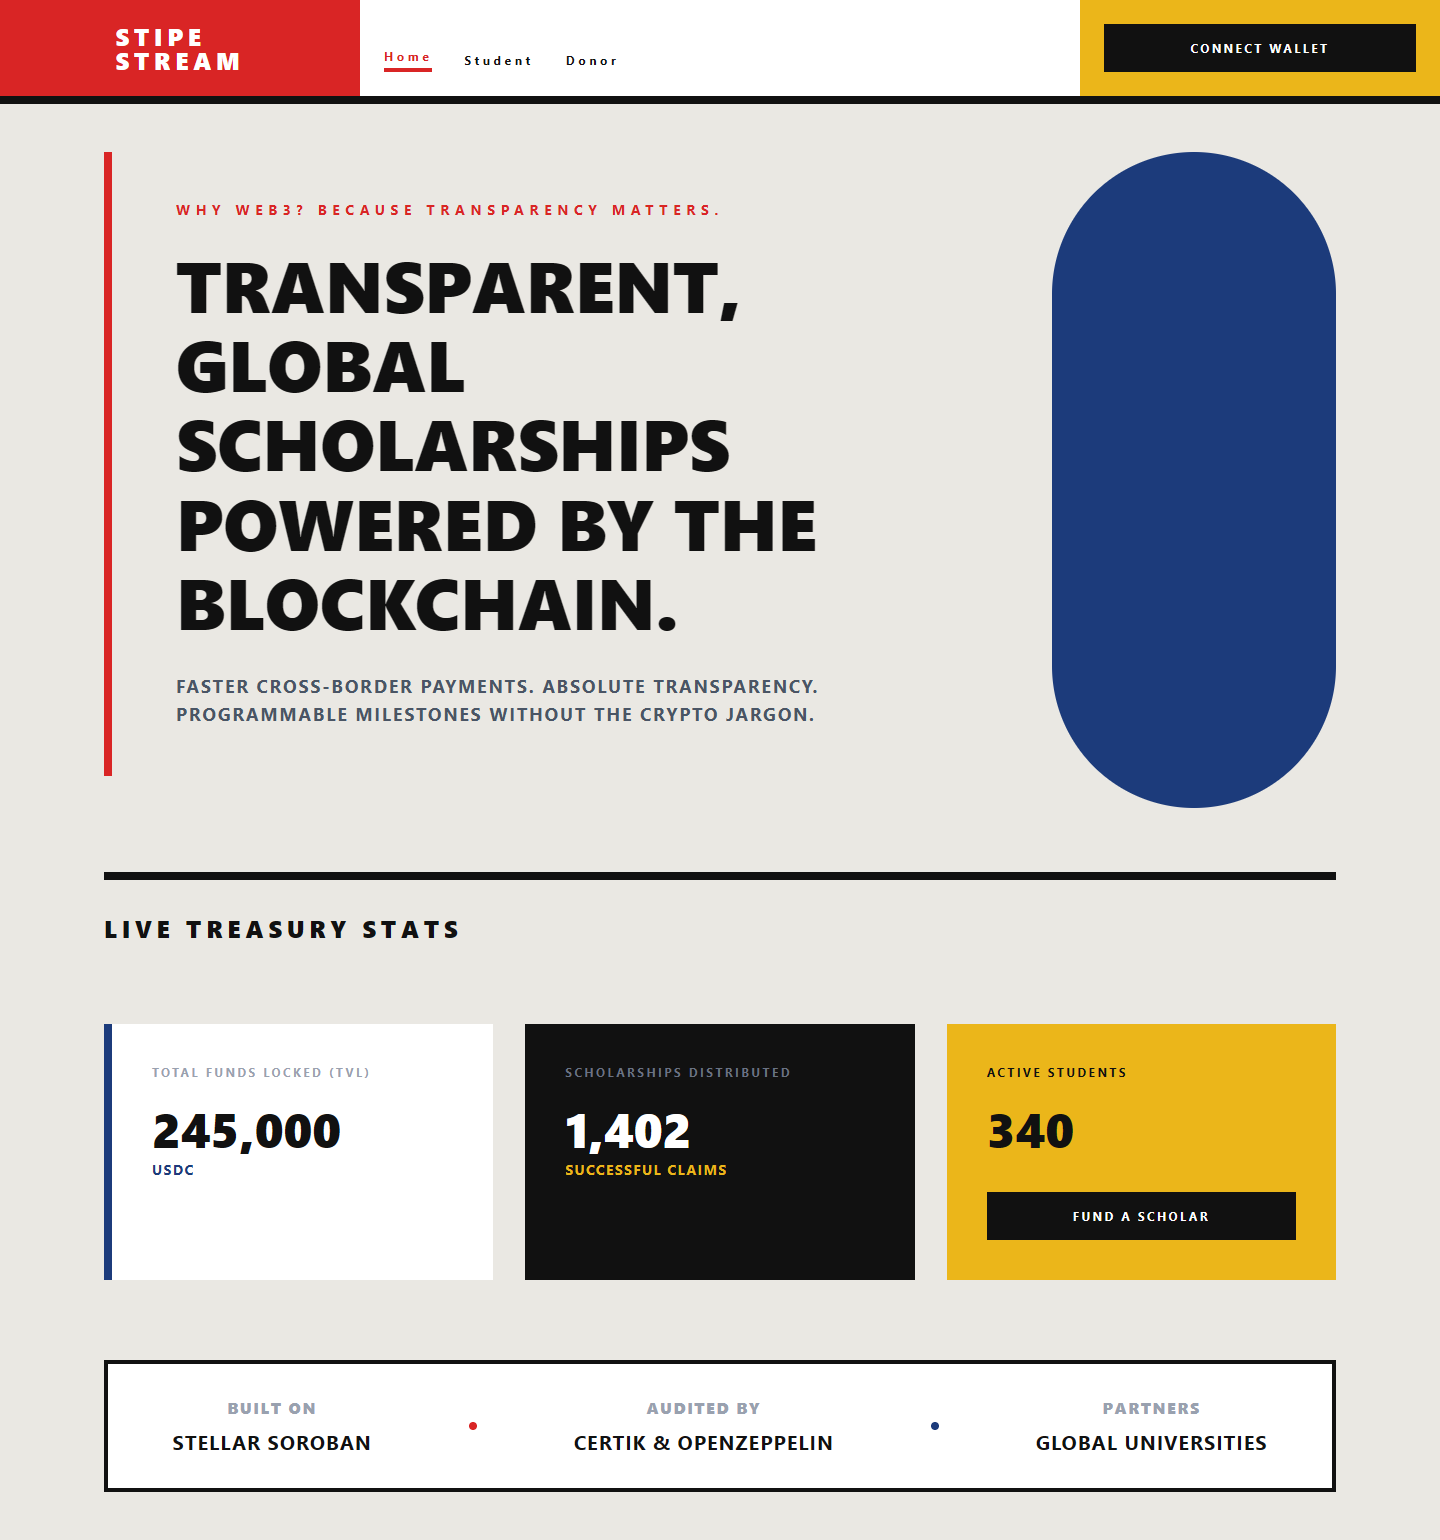
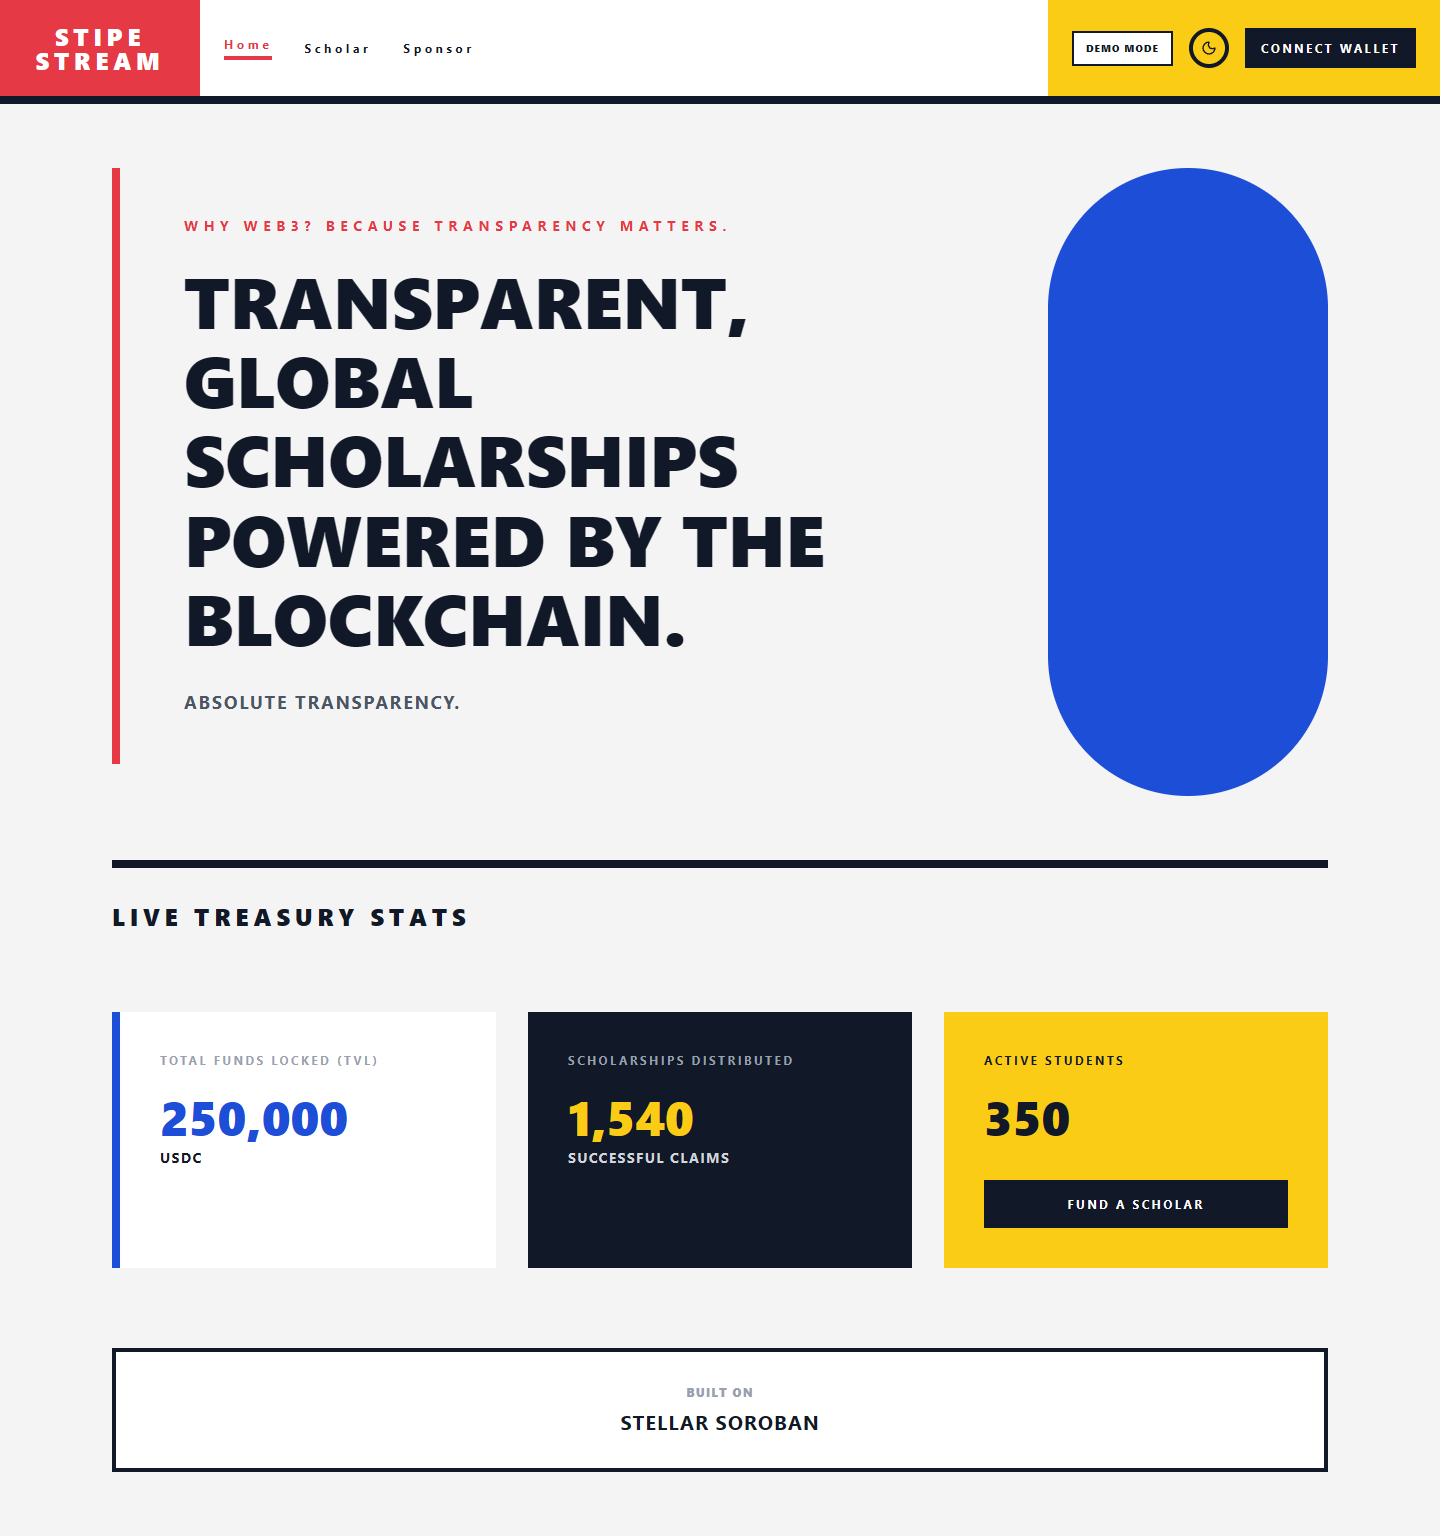
Complete documentation overhaul with detailed architecture and design walkthrough

diff --git a/README.md b/README.md
@@ -1,156 +1,141 @@
 # StipeStream
 
-**One-Line Description:** An automated, time-locked Soroban smart contract that guarantees on-time monthly stipend distributions for university scholars.
+**One-Line Description:** An automated, time-locked Soroban smart contract that guarantees on-time monthly stipend distributions for university scholars with a premium Bauhaus-inspired interface.
+
+![StipeStream Banner](./site_home.png)
 
 ## What is StipeStream?
-StipeStream is a decentralized aid disbursement protocol built on the Stellar Soroban network. It empowers NGOs, alumni funds, and educational institutions to lock stipends in a smart contract, allowing students to claim their allowance trustlessly and automatically on a strict schedule.
+StipeStream is a decentralized aid disbursement protocol built on the **Stellar Soroban** network. It empowers NGOs, alumni funds, and educational institutions to lock stipends in a smart contract, allowing students to claim their allowance trustlessly and automatically on a strict schedule.
 
-## The Problem it Solves
-**Problem:** A low-income university scholar in Metro Manila (and globally) faces food insecurity and risks dropping out because their monthly living allowance from a local NGO is chronically delayed by bureaucratic accounting bottlenecks. The cost of friction includes severe cash flow disruptions leading to skipped meals, late rent penalties, or taking out high-interest short-term loans.
-
-## Target Users
-- **Funder (NGOs / Alumni Associations):** Organizations that want a transparent, zero-administrative-overhead way to disburse funds to students predictably.
-- **Students (Scholars):** Low-income students who rely on scheduled aid to pay rent, buy groceries, and afford commuting without facing uncertain delays.
+---
 
 ## Why Stellar?
 - **Low Fees:** Distributing $100 in aid should not cost $10 in network fees. Stellar's fraction-of-a-cent transaction fees ensure the maximum amount of aid reaches the scholar.
-- **Fast Settlement:** Students receive their USDC in under 5 seconds, allowing them to offramp it immediately.
-- **Soroban Smart Contracts:** The time-lock conditions and exact payout amounts are immutably written into Soroban contracts, guaranteeing that funders cannot arbitrarily delay the schedule, nor can students claim early.
+- **Soroban Smart Contracts:** Leveraging `Env::ledger().timestamp()` for secure, un-cheatable time-locked conditions.
+- **Freighter Wallet:** The industry-standard entry point for the Stellar ecosystem, providing a secure and familiar bridge for users.
+- **USDC on Stellar:** Near-instant settlement of stable value, ensuring students receive funds they can use immediately without volatility.
 
-## How it Works
-**Solution:** An NGO or alumni fund locks the entire semester's stipend in a Soroban smart contract at the start of the term. This empowers the student to trustlessly withdraw exactly one month's allowance (in USDC) every 30 days without waiting for any human approval. 
+## Design Philosophy: Bauhaus Functionalism
+StipeStream is designed around the **Bauhaus Design System**, emphasizing geometric clarity, structural hierarchy, and vibrant primary colors.
+- **Crimson (#E63946):** Urgent actions and progress tracking.
+- **Navy (#1D4ED8):** Primary identity and student verification status.
+- **Gold (#FACC15):** Rewards, treasury volume, and positive impact metrics.
+- **Charcoal (#111827):** Deep contrast and professional structural elements.
 
-1. **Initialization:** The funder (NGO) initializes the contract with the student's address and the agreed stipend amount.
-2. **Funding:** The funder deposits a large sum (e.g., for a full semester) into the contract's vault.
-3. **Claiming:** The student connects their wallet (e.g., Freighter) and withdraws one month's allowance exactly every 30 days. The time-lock strictly prevents early withdrawals.
+---
+
+## Key Features
+
+### 1. Smart Contract Time-Locks
+Funds are locked in a Soroban escrow. Students can only withdraw their `payout_amount` after a 30-day interval has passed since their last claim. Human intervention is removed, eliminating administrative delays.
+
+### 2. Risk-Free Demo Mode
+Explore the entire platform without spending real XLM. Demo Mode uses isolated `localStorage` keys and simulates transactions with realistic latencies and success modals. It comes pre-loaded with sample data (TVL: 12.5k USDC) for an instant presentation-ready feel.
+
+### 3. Persistent Dark Mode
+Full support for user-preferred theming. StipeStream remembers your choice between Light and Dark mode, using a premium charcoal palette that preserves the Bauhaus primary colors' vibrancy while reducing eye strain.
+
+### 4. Fully Responsive Engineering
+The dashboard is engineered to be a mobile-first experience. 
+- **Wrapping Headers:** Navigation and wallet controls wrap logically on small screens.
+- **Stacked Layouts:** Complex dashboards transition from multi-column grids to intuitive vertical stacks.
+- **Diagram Alignment:** The Fund Allocation flow diagram dynamically re-aligns its connectors for small screens.
+
+---
+
+## Target Users
+- **NGOs / Funders:** Organizations requiring transparent, automated disbursement with zero overhead.
+- **Scholars (Students):** High-need students relying on predictable, on-time living allowances.
+- **Donors:** Individuals who want to see their impact in real-time through the **Impact NFT** visualization.
+
+---
 
 ## Architecture
-StipeStream utilizes a hybrid architecture matching modern Web3 standards:
-- **Frontend Layer:** A high-performance, neo-brutalist React application (built with Vite and TailwindCSS) hosted on GitHub Pages. It uses `@stellar/freighter-api` to connect directly to the user's wallet.
-- **Contract Layer:** A Rust-based Soroban smart contract deployed on the Stellar Testnet. This contract acts as the trustless escrow vault.
-- **Ledger Layer:** The Stellar Network processes the USDC transfers and maintains an immutable public ledger of all disbursements.
+
+```mermaid
+graph TD
+    User((User/Student)) -->|Freighter Wallet| Frontend[React Bauhaus UI]
+    Frontend -->|Soroban RPC| Contract[Soroban Escrow Contract]
+    Contract -->|Claim/Deposit| Ledger[Stellar Ledger]
+    Ledger -->|USDC Transfer| User
+    
+    subgraph Contract Logic
+        TimeLock[Time-Lock Check]
+        Identity[zk-Proof Simulation]
+        Balance[Vault Balance Guard]
+    end
+```
+
+---
 
 ## Project Structure
 ```text
 stipestream/
 ├── contracts/               # Soroban smart contracts
-│   └── hello-world/         
-│       ├── Cargo.toml       # Contract dependencies
-│       └── src/
-│           ├── lib.rs       # Core smart contract logic
-│           └── test.rs      # Unit tests
+│   └── hello-world/         # Core disbursement logic
+│       ├── src/lib.rs       # Rust implementation of escrow & time-locks
 ├── frontend/                # React Web Application
 │   ├── src/
-│   │   ├── App.tsx          # Main application logic & UI
-│   │   └── index.css        # Neo-brutalist global styling
-│   ├── tailwind.config.js   # Custom design tokens
-│   └── package.json         # Frontend dependencies
-├── .github/workflows/       # CI/CD pipelines (GitHub Pages deployment)
-└── README.md                # Project documentation
+│   │   ├── App.tsx          # Main logic, Demo Mode, & Dashboard routing
+│   │   └── index.css        # Bauhaus Design System & Dark Mode variants
+│   ├── tailwind.config.js   # Custom Bauhaus design tokens
+│   └── screenshot.cjs       # Puppeteer automation for documentation
+└── README.md                # Detailed project documentation
 ```
 
-## Contract Functions
-The core logic resides in a Soroban contract tracking a `StipendState` with the following key functions:
-- `initialize(funder: Address, student: Address, token: Address, payout_amount: i128, interval_secs: u64)`: Sets up the initial parameters and binds the student and funder.
-- `deposit(amount: i128)`: Called by the funder to lock funds into the contract's vault.
-- `claim()`: Called by the student. The contract checks if `current_time >= last_claim_time + interval_secs`. If true, it transfers `payout_amount` of USDC to the student and updates `last_claim_time`.
+---
 
 ## Status Lifecycle
-1. **Unfunded / Pending:** The contract is initialized but has no USDC balance.
-2. **Active / Locked:** The contract is funded. The student is currently waiting for the `interval_secs` timer to run out.
-3. **Ready to Claim:** The time-lock has expired. The student can click "Claim" to withdraw their stipend.
-4. **Depleted:** The contract vault has less balance than the `payout_amount`, requiring the funder to deposit more or marking the end of the scholarship term.
+1. **Unverified:** Student must prove identity (simulated zk-Proof).
+2. **Active:** Contract is funded and student is waiting for the timer.
+3. **Unlocked:** 30 days have passed; the "Claim" button becomes vibrant red.
+4. **Claimed:** Funds transferred; timer resets; on-chain success event triggered.
 
-## Smart Contract Details
+---
 
-**Contract ID:** `CCSUHUIWD7KLPACAVPROOFMUD6D3GPMEXJVXSRFB52BCVQHREKEH2YCV`
+## Contract Functions
+- `initialize`: Sets the funder, student, and payout parameters.
+- `deposit`: Locks USDC into the contract vault.
+- `claim`: Transfers the payout if the 30-day window has closed.
 
-**Deployed Smart Contract Link:** 
-[View on Stellar Lab (Testnet)](https://lab.stellar.org/r/testnet/contract/CCSUHUIWD7KLPACAVPROOFMUD6D3GPMEXJVXSRFB52BCVQHREKEH2YCV)
+---
 
-*(Recommended) Screenshot of the deployed contract:*
+## Setup & Quickstart
 
-![Deployed Contract Screenshot](./stellar_lab_screenshot.png)
+### Prerequisites
+* Rust toolchain (`wasm32-unknown-unknown`)
+* Soroban CLI
+* Node.js v18+
+* Freighter Wallet Extension
 
-## Web Application Interface
-Here is the neo-brutalist inspired UI for StipeStream, designed for a frictionless user experience:
-
-### Landing Page & Trust Signals
-![Home](./site_home.png)
-
-### Scholar Dashboard & Identity
-![Stipends](./site_stipends.png)
-
-### Donor Dashboard & Impact
-![History](./site_history.png)
-
-## Timeline
-Can be easily built, customized, and demoed via a simple web frontend within a 48-hour bootcamp.
-
-## Stellar Features Used
-* **Soroban Smart Contracts:** Leveraging `Env::ledger().timestamp()` for secure, un-cheatable time-locked conditions.
-* **Stellar Assets (USDC):** Using the stellar asset contract standard to transfer native/bridged stablecoins efficiently.
-* **Freighter Wallet Integration:** Seamless connection and signing using the standard `@stellar/freighter-api`.
-
-## Vision and Purpose
-To automate social aid and educational grants, ensuring funds reach students exactly when they need them without heavy administrative overhead or delays. 
-
-## Prerequisites
-* Rust toolchain (`rustup target add wasm32-unknown-unknown`)
-* Soroban CLI (`cargo install --locked soroban-cli` or Stellar CLI)
-* Node.js v18+ (for frontend development)
-* A Stellar Freighter Wallet browser extension
-
-## Detailed Setup & Quickstart
-
-**1. Clone the Repository**
+### Installation
 ```bash
 git clone https://github.com/PrinceDale99/StripeSpend.git
-cd StripeSpend
-```
-
-**2. How to Build the Contract**
-```bash
-cargo build --target wasm32-unknown-unknown --release
-# OR
-soroban contract build
-```
-
-**3. How to Test the Contract**
-```bash
-cargo test
-```
-
-**4. How to Deploy to Testnet**
-```bash
-# Generate an identity and fund it
-soroban config identity generate default
-soroban keys fund default --network testnet
-
-# Deploy the WASM
-soroban contract deploy \
-  --wasm target/wasm32-unknown-unknown/release/stipestream.wasm \
-  --source default \
-  --network testnet
-```
-
-**5. Start the Web Frontend**
-```bash
-cd frontend
+cd StripeSpend/frontend
 npm install
 npm run dev
 ```
 
-**6. CLI Invocation (Simulate MVP Function)**
-*(Assuming enough time has passed since initialization)*
+### Build Contract
 ```bash
-soroban contract invoke \
-  --id CCSUHUIWD7KLPACAVPROOFMUD6D3GPMEXJVXSRFB52BCVQHREKEH2YCV \
-  --source <STUDENT_SECRET_KEY> \
-  --network testnet \
-  -- \
-  claim
+cd ../contracts/hello-world
+soroban contract build
 ```
+
+---
+
+## UI Walkthrough
+
+### Home: Establishing Trust
+Clearly explains the Web3 value proposition without jargon. Features live treasury stats and the "Built on Stellar" badge.
+
+### Scholar: Claiming stipends
+Displays the next unlock timer, available balance, and verification status.
+
+### Sponsor: Funding the future
+A one-click deposit interface with the ability to "Onboard New Scholars" and track impact via a dynamic SVG "Impact NFT".
+
+---
 
 ## License
 MIT License
